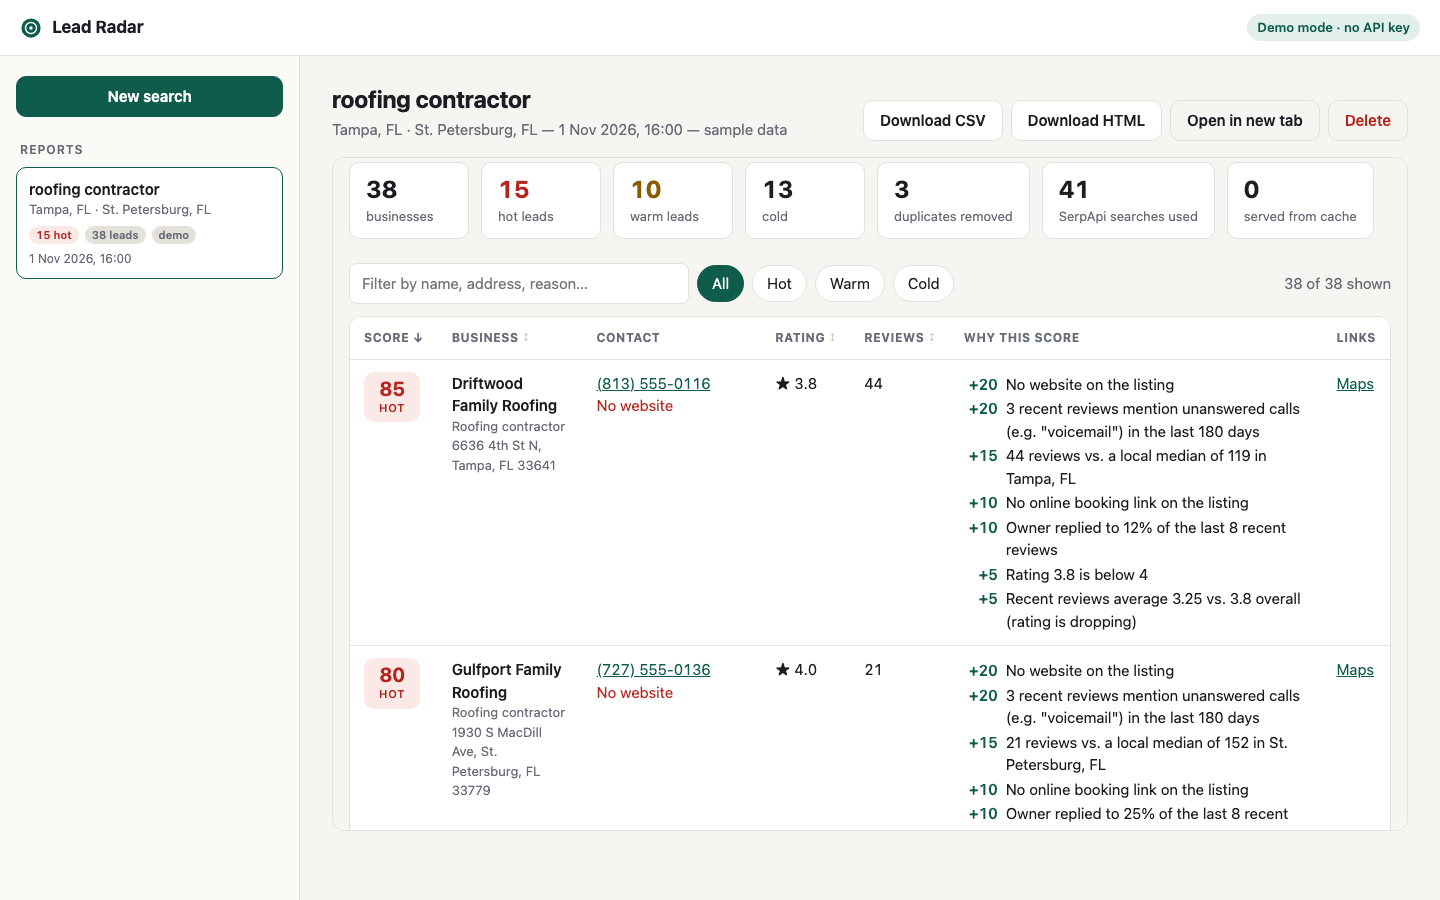
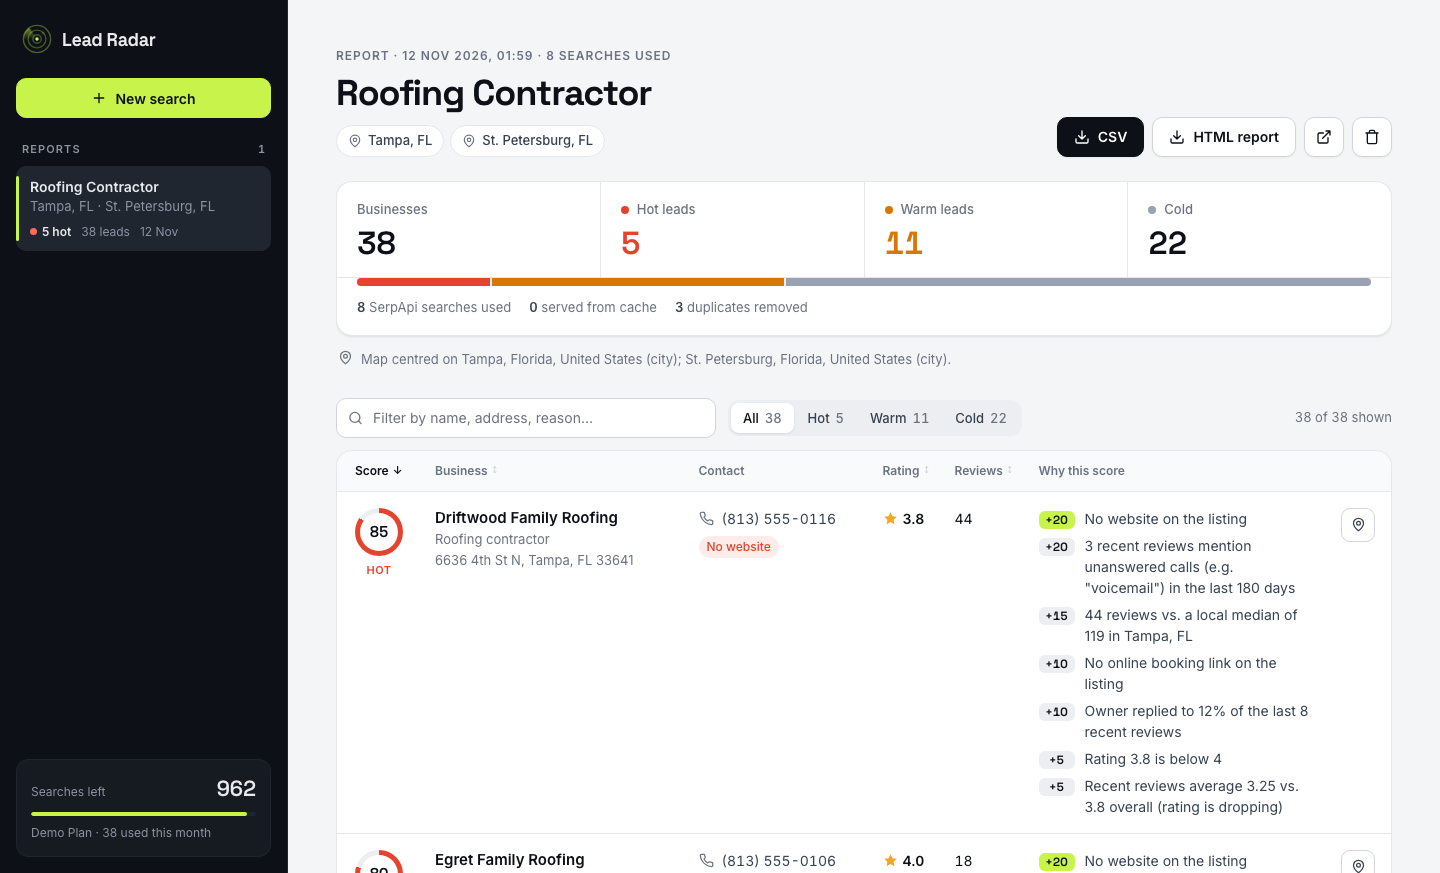
docs: refresh screenshots for the redesign

diff --git a/README.md b/README.md
@@ -46,6 +46,8 @@ pipeline on bundled sample data without spending anything.
 
 `lead-radar web` is the everyday way to use Lead Radar:
 
+![New search with a cost estimate](docs/new-search.png)
+
 1. **New search.** Type a niche, add one or more locations, choose how many businesses per
    location and whether to analyse reviews.
 2. **Estimate cost.** Shows Google Maps pages, review lookups, what is already cached (free)
